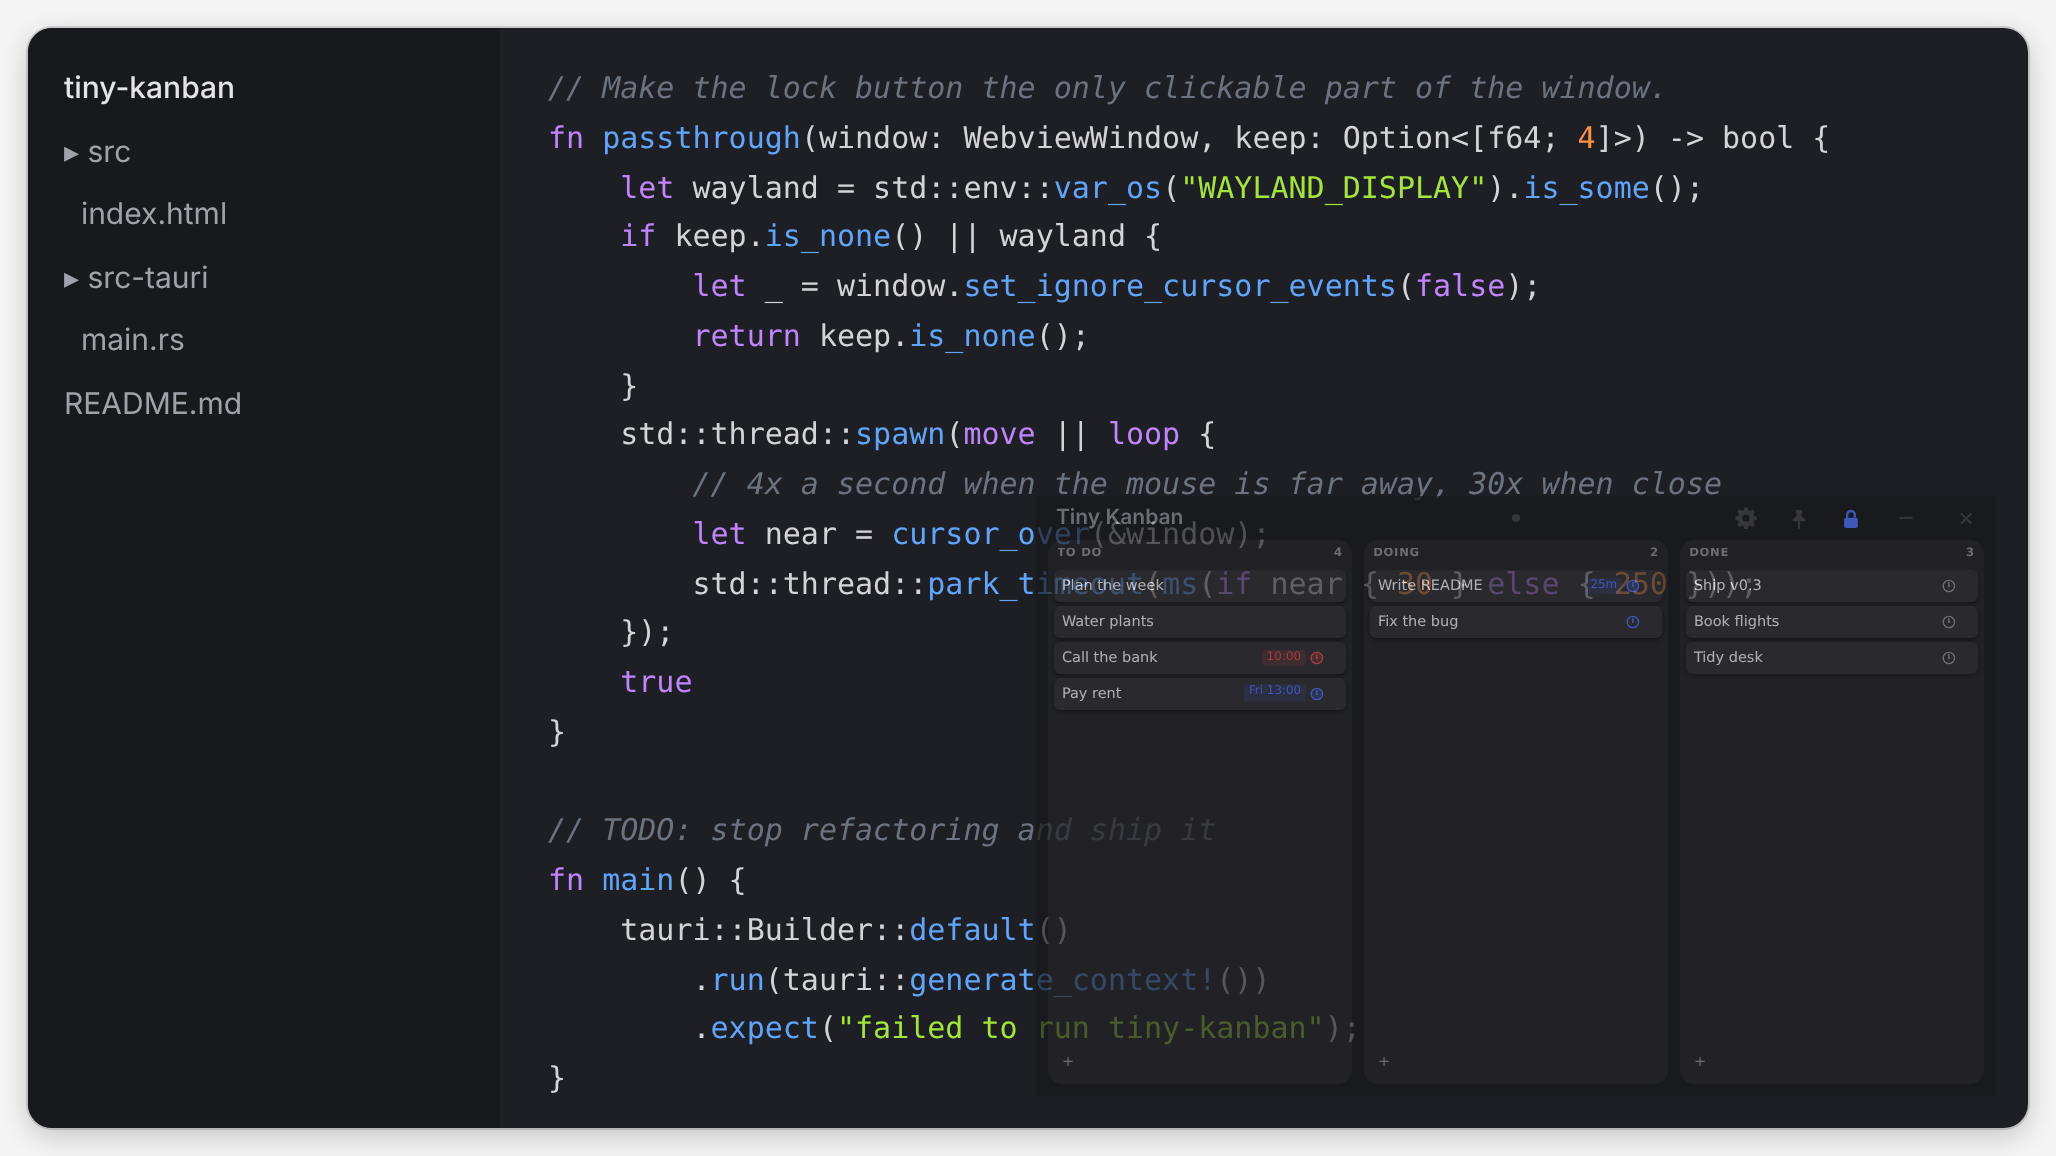
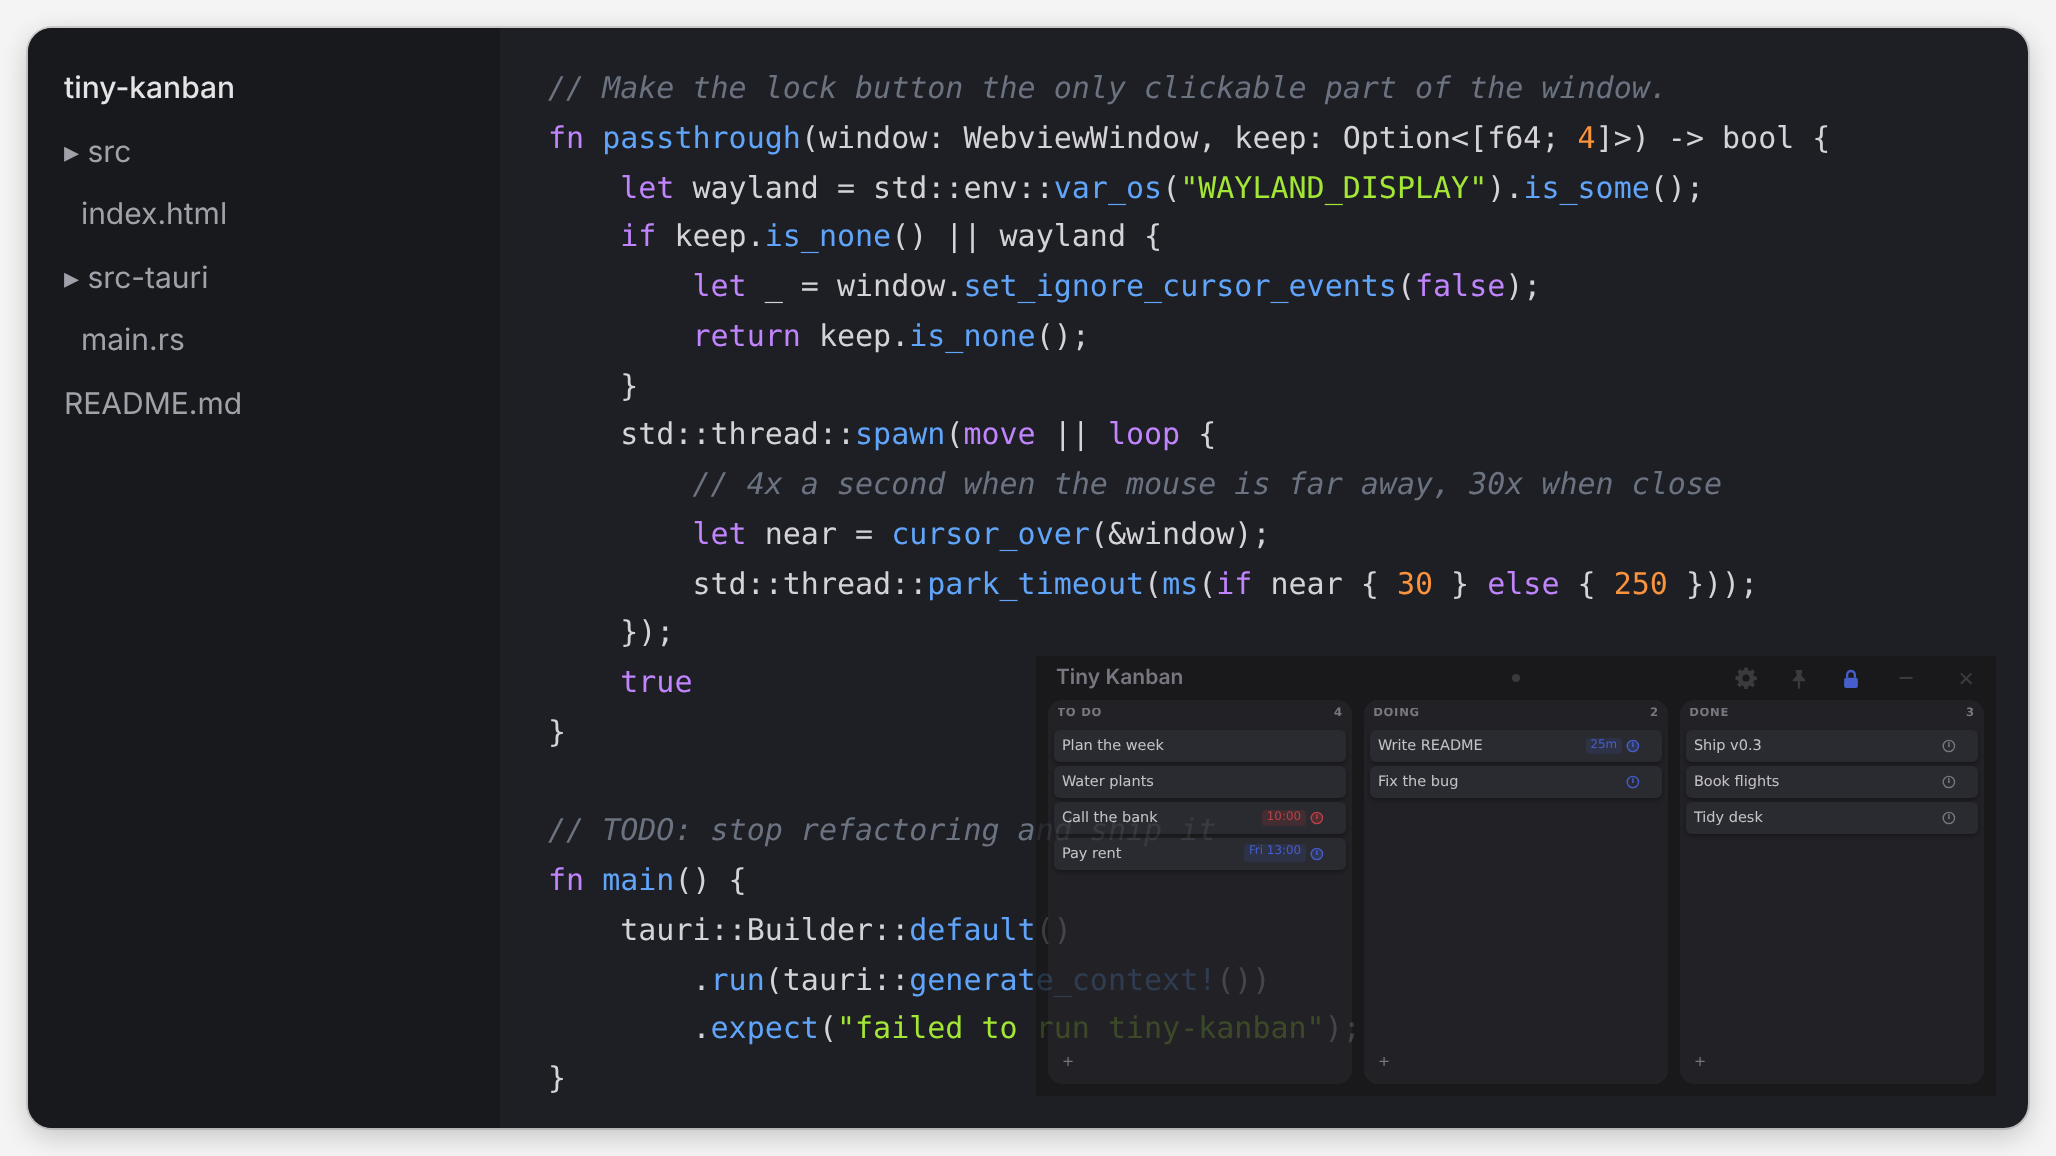
Overlay screenshot: shorter board at 80% opacity
Claude-Session: https://claude.ai/code/session_01Tnc5YErR2DXgj6Akr3BaSB

diff --git a/README.md b/README.md
@@ -24,7 +24,7 @@ browser.
 | <img src="docs/screenshots/board-light.png" alt="Light mode with timers and deadlines"> | <img src="docs/screenshots/mini-mode.png" alt="Mini mode with a card popped out"> |
 | Light mode, with a timer, a deadline and an overdue card | Mini mode: hover a card to read it full size |
 | <img src="docs/screenshots/settings.png" alt="Settings panel"> | <img src="docs/screenshots/overlay.png" alt="Locked see-through board over a code editor"> |
-| Settings: columns, colours, shortcuts, archive | Locked at 70% opacity over an editor; clicks go through |
+| Settings: columns, colours, shortcuts, archive | Locked at 80% opacity over an editor; clicks go through |
 
 ## Highlights
 
